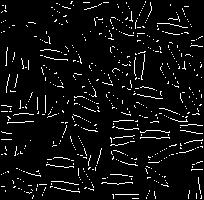
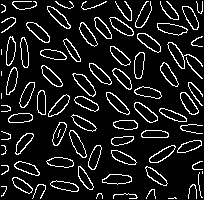
fix code canny and isotropik

diff --git a/canny2.py b/canny2.py
@@ -1,102 +1,119 @@
 import numpy as np
-from math import sqrt, atan2, pi
-from PIL import Image
+from scipy import ndimage
+import cv2
+import matplotlib.pyplot as plt
 
-# Parameter
+# Input & Output
 image_path = 'img/beras.jpg'
 output_canny = 'report/hasil_tepi_canny2.jpg'
-sigma = 1.4  # Gaussian blur
-low_thresh = 50
-high_thresh = 150
 
-# Baca citra hitam-putih
-img = Image.open(image_path).convert('L')
-img_array = np.array(img, dtype=float)
+# 1. Load image (sudah grayscale)
+img = cv2.imread(image_path, cv2.IMREAD_GRAYSCALE)
+img_array = img.astype(float)
 
-# 1. Gaussian smoothing
-def gaussian_kernel(size=5, sigma=1.4):
-    k = size // 2
-    ax = np.arange(-k, k+1)
-    xx, yy = np.meshgrid(ax, ax)
-    kernel = np.exp(-(xx**2 + yy**2)/(2*sigma**2))
-    kernel /= 2*np.pi*sigma**2
-    kernel /= kernel.sum()
-    return kernel
+# 2. Gaussian blur
+blur_img = ndimage.gaussian_filter(img_array, sigma=1.0)
 
-def convolve(img, kernel):
-    m, n = kernel.shape
-    y, x = img.shape
-    pad_h, pad_w = m//2, n//2
-    img_padded = np.pad(img, ((pad_h, pad_h), (pad_w, pad_w)), mode='edge')
-    out = np.zeros_like(img)
-    for i in range(y):
-        for j in range(x):
-            region = img_padded[i:i+m, j:j+n]
-            out[i,j] = np.sum(region * kernel)
-    return out
+# 3. Gradient (Sobel)
+def gradient_x(img):
+    grad = ndimage.convolve(img, np.array([[-1, 0, 1],
+                                           [-2, 0, 2],
+                                           [-1, 0, 1]]))
+    return grad / np.max(np.abs(grad))
 
-img_smooth = convolve(img_array, gaussian_kernel(5, sigma))
+def gradient_y(img):
+    grad = ndimage.convolve(img, np.array([[-1, -2, -1],
+                                           [ 0,  0,  0],
+                                           [ 1,  2,  1]]))
+    return grad / np.max(np.abs(grad))
 
-# 2. Gradien (Sobel)
-Sobel_x = np.array([[-1,0,1],[-2,0,2],[-1,0,1]])
-Sobel_y = np.array([[-1,-2,-1],[0,0,0],[1,2,1]])
-Gx = convolve(img_smooth, Sobel_x)
-Gy = convolve(img_smooth, Sobel_y)
+fx = gradient_x(blur_img)
+fy = gradient_y(blur_img)
 
-# 3. Magnitude dan arah gradien
-G = np.hypot(Gx, Gy)
-G = (G / G.max()) * 255  # Normalisasi 0-255
-theta = np.arctan2(Gy, Gx) * 180 / pi
-theta[theta < 0] += 180
+# 4. Gradient magnitude & direction
+grad_mag = np.hypot(fx, fy)
+grad_mag = grad_mag / np.max(grad_mag)
+grad_dir = np.degrees(np.arctan2(fy, fx))
 
-# 4. Non-maximum suppression
-def non_max_suppression(G, theta):
-    Z = np.zeros_like(G)
-    rows, cols = G.shape
-    angle = theta.copy()
-    
-    for i in range(1, rows-1):
-        for j in range(1, cols-1):
-            q = r = 255
-            # Round angle to nearest 0, 45, 90, 135
-            a = angle[i,j]
-            if (0 <= a < 22.5) or (157.5 <= a <= 180):
-                q, r = G[i,j+1], G[i,j-1]
-            elif (22.5 <= a < 67.5):
-                q, r = G[i+1,j-1], G[i-1,j+1]
-            elif (67.5 <= a < 112.5):
-                q, r = G[i+1,j], G[i-1,j]
-            elif (112.5 <= a < 157.5):
-                q, r = G[i-1,j-1], G[i+1,j+1]
-            if (G[i,j] >= q) and (G[i,j] >= r):
-                Z[i,j] = G[i,j]
+# 5. Non-maximum suppression
+def closest_dir_function(grad_dir):
+    closest = np.zeros(grad_dir.shape)
+    for i in range(1, grad_dir.shape[0]-1):
+        for j in range(1, grad_dir.shape[1]-1):
+            a = grad_dir[i, j]
+            if ((-22.5 < a <= 22.5) or (a <= -157.5) or (a > 157.5)):
+                closest[i, j] = 0
+            elif ((22.5 < a <= 67.5) or (-157.5 < a <= -112.5)):
+                closest[i, j] = 45
+            elif ((67.5 < a <= 112.5) or (-112.5 < a <= -67.5)):
+                closest[i, j] = 90
             else:
-                Z[i,j] = 0
-    return Z
+                closest[i, j] = 135
+    return closest
 
-G_nms = non_max_suppression(G, theta)
+def non_maximal_suppressor(grad_mag, closest_dir):
+    thinned = np.zeros(grad_mag.shape)
+    for i in range(1, grad_mag.shape[0]-1):
+        for j in range(1, grad_mag.shape[1]-1):
+            if closest_dir[i, j] == 0:
+                if grad_mag[i, j] > grad_mag[i, j+1] and grad_mag[i, j] > grad_mag[i, j-1]:
+                    thinned[i, j] = grad_mag[i, j]
+            elif closest_dir[i, j] == 45:
+                if grad_mag[i, j] > grad_mag[i+1, j+1] and grad_mag[i, j] > grad_mag[i-1, j-1]:
+                    thinned[i, j] = grad_mag[i, j]
+            elif closest_dir[i, j] == 90:
+                if grad_mag[i, j] > grad_mag[i+1, j] and grad_mag[i, j] > grad_mag[i-1, j]:
+                    thinned[i, j] = grad_mag[i, j]
+            else:
+                if grad_mag[i, j] > grad_mag[i+1, j-1] and grad_mag[i, j] > grad_mag[i-1, j+1]:
+                    thinned[i, j] = grad_mag[i, j]
+    return thinned / np.max(thinned)
 
-# 5. Double threshold + hysteresis
-strong = 255
-weak = 75
-res = np.zeros_like(G_nms)
-res[G_nms >= high_thresh] = strong
-res[(G_nms >= low_thresh) & (G_nms < high_thresh)] = weak
+closest_dir = closest_dir_function(grad_dir)
+thinned_output = non_maximal_suppressor(grad_mag, closest_dir)
 
-# Hysteresis dengan iterasi sampai konvergen
-rows, cols = res.shape
-changed = True
-while changed:
-    changed = False
-    for i in range(1, rows-1):
-        for j in range(1, cols-1):
-            if res[i,j] == weak:
-                if np.any(res[i-1:i+2, j-1:j+2] == strong):
-                    res[i,j] = strong
-                    changed = True
-                else:
-                    res[i,j] = 0
+# 6. Hysteresis thresholding
+def DFS(img):
+    for i in range(1, img.shape[0]-1):
+        for j in range(1, img.shape[1]-1):
+            if img[i, j] == 1:
+                if np.max(img[i-1:i+2, j-1:j+2]) == 2:
+                    img[i, j] = 2
 
-# Simpan hasil
-Image.fromarray(res.astype(np.uint8)).save(output_canny)
-Image.fromarray(res.astype(np.uint8)).show()
+def hysteresis_thresholding(img):
+    low_ratio, high_ratio = 0.10, 0.30
+    diff = np.max(img) - np.min(img)
+    t_low = np.min(img) + low_ratio * diff
+    t_high = np.min(img) + high_ratio * diff
+    temp = np.copy(img)
+
+    for i in range(1, img.shape[0]-1):
+        for j in range(1, img.shape[1]-1):
+            if img[i, j] > t_high:
+                temp[i, j] = 2
+            elif img[i, j] < t_low:
+                temp[i, j] = 0
+            else:
+                temp[i, j] = 1
+
+    total_strong = np.sum(temp == 2)
+    while True:
+        DFS(temp)
+        if total_strong == np.sum(temp == 2):
+            break
+        total_strong = np.sum(temp == 2)
+
+    temp[temp == 1] = 0
+    return temp / np.max(temp)
+
+output_img = hysteresis_thresholding(thinned_output)
+
+# 7. Save hasil akhir pakai OpenCV
+output_img_uint8 = (output_img * 255).astype(np.uint8)
+cv2.imwrite(output_canny, output_img_uint8)
+
+# 8. Tampilkan hasil pakai matplotlib
+plt.imshow(output_img_uint8, cmap="gray")
+plt.axis("off")
+plt.title("Deteksi Tepi Canny")
+plt.show()

diff --git a/isotropik.py b/isotropik.py
@@ -1,47 +1,46 @@
 import numpy as np
+import matplotlib.pyplot as plt
+import cv2
 from math import sqrt
-from PIL import Image
 
-# Parameter
-image_path = 'img/beras.jpg'
-output_euclidean = 'report/hasil_tepi_isotropik.jpg'
-output_max = 'report/hasil_tepi_isotropik_max.jpg'
+# Input & Output
+image_path = "img/beras.jpg"
+output_isotropik = "report/hasil_tepi_isotropik.jpg"
 
-# Baca citra hitam-putih
-img = Image.open(image_path).convert('L')
-img_array = np.array(img, dtype=float)
+# Baca citra grayscale pakai OpenCV
+img = cv2.imread(image_path, cv2.IMREAD_GRAYSCALE)
 
-# Mask isotropik
-Kx = np.array([[-1, 0, 1], [-sqrt(2), 0, sqrt(2)], [-1, 0, 1]])
-Ky = np.array([[-1, -sqrt(2), -1], [0, 0, 0], [1, sqrt(2), 1]])
+# Kernel isotropik
+Kx = np.array([[-1, 0, 1],
+               [-sqrt(2), 0, sqrt(2)],
+               [-1, 0, 1]])
 
-rows, cols = img_array.shape
-G_euclid = np.zeros((rows, cols))
-G_max = np.zeros((rows, cols))
+Ky = np.array([[-1, -sqrt(2), -1],
+               [0, 0, 0],
+               [1, sqrt(2), 1]])
 
-# Loop manual untuk konvolusi
-for i in range(1, rows-1):
-    for j in range(1, cols-1):
-        region = img_array[i-1:i+2, j-1:j+2]
-        K1 = np.sum(region * Kx)
-        K2 = np.sum(region * Ky)
+# Matriks hasil
+rows, cols = img.shape
+G = np.zeros_like(img, dtype=np.float32)
 
-        # Euclidean
-        G_euclid[i, j] = sqrt(K1**2 + K2**2)
-        # Nilai maksimum
-        G_max[i, j] = max(abs(K1), abs(K2))
+# Konvolusi manual
+for i in range(1, rows - 1):
+    for j in range(1, cols - 1):
+        region = img[i-1:i+2, j-1:j+2]
+        gx = np.sum(Kx * region)
+        gy = np.sum(Ky * region)
+        
+        # Magnitudo gradien
+        G[i, j] = np.sqrt(gx**2 + gy**2)
 
-# Normalisasi ke 0-255
-G_euclid = (G_euclid / G_euclid.max()) * 255
-G_max = (G_max / G_max.max()) * 255
+# Normalisasi 0–255
+G = (G / G.max() * 255).astype(np.uint8)
 
-G_euclid = G_euclid.astype(np.uint8)
-G_max = G_max.astype(np.uint8)
-
-# Simpan hasil citra
-Image.fromarray(G_euclid).save(output_euclidean)
-Image.fromarray(G_max).save(output_max)
+# Simpan hasil
+cv2.imwrite(output_isotropik, G)
 
 # Tampilkan hasil (opsional)
-Image.fromarray(G_euclid).show()
-Image.fromarray(G_max).show()
+plt.imshow(G, cmap="gray")
+plt.axis("off")
+plt.title("Deteksi Tepi Isotropik")
+plt.show()

diff --git a/canny.py b/canny.py
@@ -1,11 +1,11 @@
 import cv2
-from PIL import Image
+import matplotlib.pyplot as plt
 
 # Parameter
-image_path = 'img/beras.jpg'
-output_canny = 'report/hasil_tepi_canny.png'
+image_path = "img/beras.jpg"
+output_canny = "report/hasil_tepi_canny.jpg"
 
-# Baca citra hitam-putih
+# Baca citra grayscale
 img = cv2.imread(image_path, cv2.IMREAD_GRAYSCALE)
 
 # Terapkan Canny Edge Detection
@@ -16,4 +16,7 @@ edges = cv2.Canny(img, 100, 200)
 cv2.imwrite(output_canny, edges)
 
 # Tampilkan hasil (opsional)
-Image.fromarray(edges).show()
+plt.imshow(edges, cmap="gray")
+plt.axis("off")
+plt.title("Deteksi Tepi Canny")
+plt.show()
